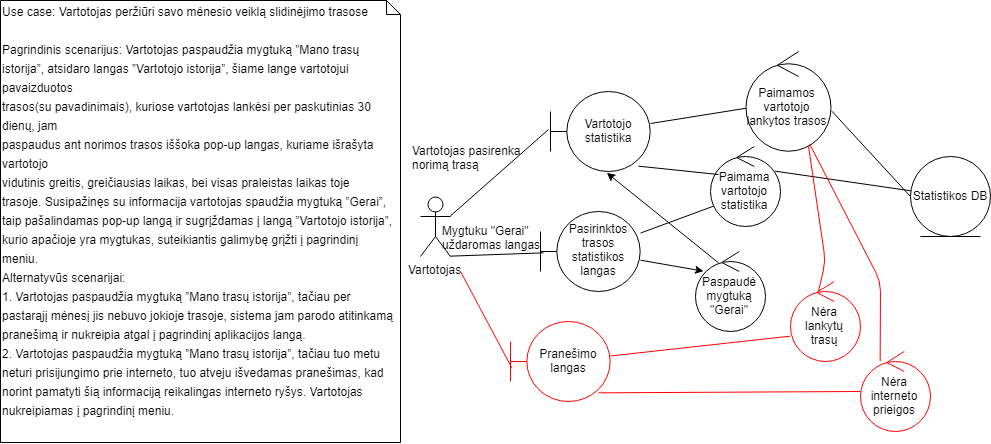
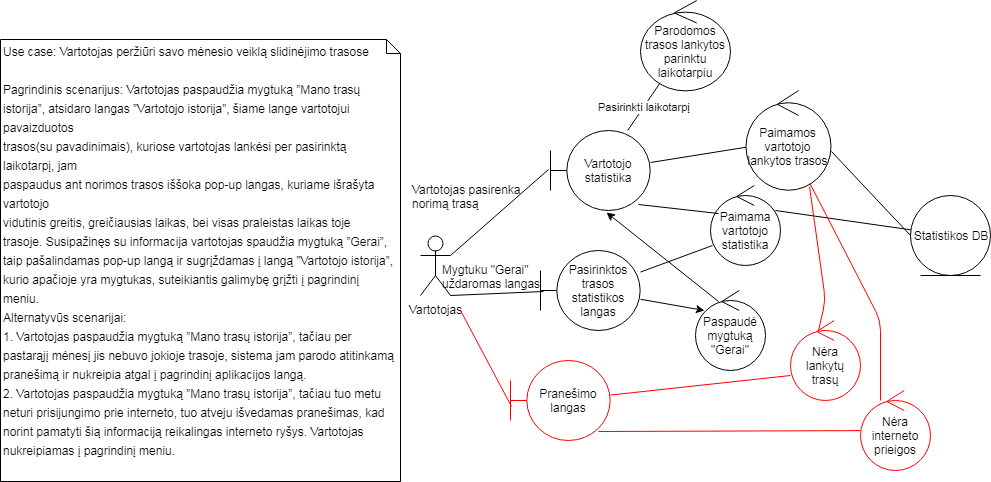
NFR istrintas, pridetas FR
Pakeistos vietos susijusios su siuo FR/NFR

diff --git a/PSI II Lab 2/PSI II 2 Labaratorinis.tex b/PSI II Lab 2/PSI II 2 Labaratorinis.tex
@@ -69,6 +69,7 @@
 		\item sistema saugo greičiausią laiką, per kurį vartotojas įveikė trasą.
 	\end{enumerate}
 	\item Vartotojo trasų laikai rodomi internetinėje aplikacijoje.
+	\item Sistema suteikia galimybę pasirinkti laikotarpį, kuriuo filtruoti lankytas trasas
 	\item Sistema suteikia vartotojui galimybę tvarkyti savo paskyrą.
 	\begin{enumerate}
 		\item Prisijungti.
@@ -117,6 +118,7 @@
 	\item \textit{Sistema administratoriui suteikia galimybę pamatyti trasas rezervavusių žmonių sąrašą}
 	
 	\item Sistema suteikia galimybę keisti vertinimą.
+
 \end{enumerate}
 
 \subsubsection{Pataisyta nefunkcinių reikalavimų specifikacija}
